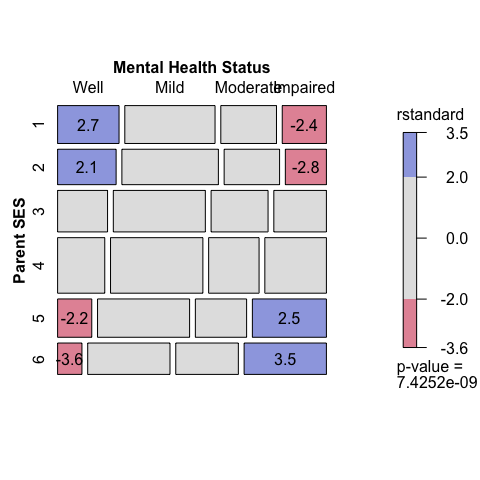
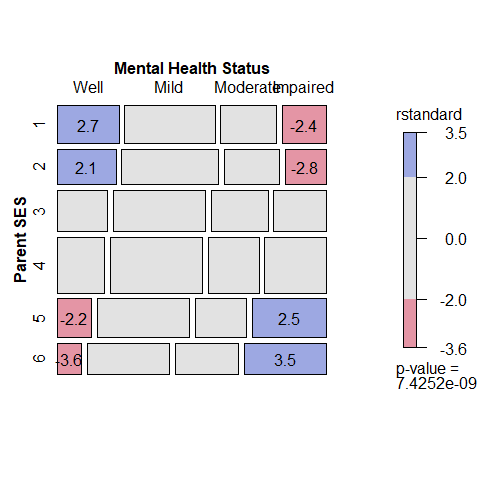
Rebuild README.md (was stale at 0.9.6); document the build gotcha
README.md wasn't re-knit since before the 0.9.7 bump, so the pkgdown
site kept showing a stale "Version 0.9.6" line -- pkgdown copies
README.md as-is, it doesn't re-render README.Rmd. Re-knit via
rmarkdown::render() after devtools::install(build_vignettes = TRUE),
regenerating the three Mental-dataset figures along the way.

devtools::build_readme() itself still fails even with vignettes
installed (renders via pkgload::load_all(), which doesn't populate
the installed vignette index that README.Rmd's vignette-listing chunk
reads from) -- documented as a build gotcha in issues/TASKS.md, along
with the vcd Codeberg clone-location sync from earlier.

Claude-Session: https://claude.ai/code/session_011fF7fuYyARs6gSAAj7Ydd5

diff --git a/issues/TASKS.md b/issues/TASKS.md
@@ -15,9 +15,19 @@ As these items are resolved, check them off as [X]
 
 David Meyer (maintainer of `vcd`) migrated its repo off R-Forge (going end-of-life) to Codeberg:
 https://codeberg.org/davidjohannesmeyer/vcd (git-based). **This is now the authoritative source
-for `vcd`** — the local copy at `C:\Dropbox\R\packages\vcd` is stale and shouldn't be treated as
-current. Now a collaborator there. Codeberg runs on **Forgejo** (a GitHub-like forge), so the
-workflow is close to GitHub's:
+for `vcd`.**
+
+Cloned fresh to `C:\Dropbox\R\projects\vcd` (2026-07-30) — `main` branch, SSH auth confirmed
+working (reused the existing GitHub SSH key, added to Codeberg account settings), collaborator
+access confirmed. Opens directly via `vcd.Rproj`.
+
+Two stale copies to be aware of, both superseded, neither touched further:
+- `C:\Dropbox\R\packages\vcd` — an extracted package/tarball dump (no `.git`), not a dev checkout.
+- `C:\Dropbox\R\projects\vcd-svn-old-2016` — an old R-Forge-era **SVN** checkout (has `.svn`),
+  found unexpectedly already sitting at the `projects\vcd` path and renamed aside to make room for
+  the fresh git clone.
+
+Codeberg runs on **Forgejo** (a GitHub-like forge), so the workflow is close to GitHub's:
 
 - Add an SSH key under Account Settings → SSH/GPG Keys (can reuse the existing GitHub key), or use
   HTTPS with a personal access token (no plain password auth, same as GitHub).
@@ -31,6 +41,30 @@ workflow is close to GitHub's:
 Once comfortable with that workflow, consider replicating/moving some of the `vcd`-enhancing work
 currently living in `vcdExtra` over to that repo directly — e.g. the `shading_marimekko()` idea
 below, which extends a function in `vcd` itself rather than in `vcdExtra`.
+
+## Migrate back to vcd
+
+Functions in `vcdExtra` that supersede or extend a same-named function in `vcd` (`vcd` being
+otherwise inactive) — candidates for PRs to the new Codeberg repo instead of staying
+vcdExtra-only. Confirmed via `library(vcdExtra)`'s own startup message ("Registered S3 methods
+overwritten by 'vcdExtra': `pairs.table`, `print.Kappa`"; "masked from 'package:vcd':
+`pairs_diagonal_mosaic`, `woolf_test`") plus each file's own roxygen documentation.
+
+- [ ] **`R/woolf_test.R`** — `woolf_test()` supersedes `vcd::woolf_test()`, adding a `decompose`
+  option: for a 2×2×R×C table, decomposes the overall homogeneity test into row effects, column
+  effects, and residual (interaction), analogous to a two-way ANOVA. The function's own docs call
+  this decomposition "a novel extension... appears [not to exist] in the existing literature."
+
+- [ ] **`R/pairs_diagonal_mosaic.R`** — `pairs_diagonal_mosaic()` is "an enhanced replacement for
+  `vcd::pairs_diagonal_mosaic()`": fixes two bugs where the original hardcoded/ignored its
+  `labeling` and `alternate_labels` arguments, and changes the default labeling scheme from
+  `labeling_values` to `labeling_border` (so cell counts are off by default). Also provides a
+  companion `pairs.table()` S3 method using this fixed version as the default diagonal panel —
+  this is what overwrites `vcd`'s `pairs.table` method.
+
+- [ ] **`R/print.Kappa.R`** — `print.Kappa()` is "a replacement for the `print.Kappa` method in
+  `vcd`," adding display of `z` values and an optional `CI` argument for confidence intervals,
+  neither present in `vcd`'s version.
 
 ## TODOs
 
@@ -95,8 +129,8 @@ below, which extends a function in `vcd` itself rather than in `vcdExtra`.
 
 Identified, not yet deleted (held for manual review).
 
-- [ ] `issues/CMHtest/` (`CMH-test-fix.R`, `CMHtest-new.R`, `CMHtest-old.R`, `CMHtest_issue.Rmd`) —
-  `CMHtest.R` shipped long ago.
+- [X] `issues/CMHtest/` (`CMH-test-fix.R`, `CMHtest-new.R`, `CMHtest-old.R`, `CMHtest_issue.Rmd`) —
+  `CMHtest.R` shipped long ago. -> Leave these for now
 
 - [ ] `issues/data-roxygenize.R`, `issues/fix_roxy.R`, `issues/fix_roxygen_items.R` — one-time roxygen
   migration scripts.
@@ -109,7 +143,7 @@ Identified, not yet deleted (held for manual review).
 - [ ] `dev/labeling_points-test.R` — `labeling_points()` shipped (keep `-plan.md`, referenced by the
   vignette TODO above).
 
-- [ ] `extra/vignettes-new/mobility.Rmd` — superseded, `a6-mobility.Rmd` already shipped in
+- [X] `extra/vignettes-new/mobility.Rmd` — superseded, `a6-mobility.Rmd` already shipped in
   `vignettes/`.
 
 - [ ] `dev/color_table/color_table-plan.md`, `color_table.md` and `dev/assoc_graph/assoc-graph.md`,
@@ -146,4 +180,63 @@ Identified, not yet deleted (held for manual review).
   `a1a-convert-collapse.Rmd` ("Steps Toward Tidy Categorical Data Analysis"), since Gavin
   Klorfine's `as_*()`/`collapse_levels()` work has now accomplished much of what this vignette
   originally proposed.
+
+## Codeberg issue draft: migrate back to vcd
+
+Drafted 2026-07-30 for the `vcd` Codeberg repo (https://codeberg.org/davidjohannesmeyer/vcd),
+covering the three confirmed function overrides above. Saved here so it can be copy/pasted back
+into the Codeberg issue editor.
+
+---
+
+There are a number of functions in `vcdExtra` that supersede or extend a same-named function in `vcd`. These are candidates for PRs to the new Codeberg repo instead of staying vcdExtra-only. I'm asking to clarify what I might do here.
+
+Confirmed via `library(vcdExtra)`'s own startup message ("Registered S3 methods overwritten by 'vcdExtra': `pairs.table`, `print.Kappa`"; "masked from 'package:vcd': `pairs_diagonal_mosaic`, `woolf_test`") plus each file's own roxygen documentation.
+
+- **[`R/woolf_test.R`](https://github.com/friendly/vcdExtra/blob/master/R/woolf_test.R)** — `woolf_test()` supersedes `vcd::woolf_test()`, adding a `decompose` option: for a 2×2×R×C table, decomposes the overall homogeneity test into row effects, column effects, and residual (interaction), analogous to a two-way ANOVA. This is actually a novel extension... appears not to exist in the existing literature. My grad student, Gavin Klorfine, is studying this via simulation for his MA project, so it would be good to be clear about where this should live, be maintained, ...
+- **[`R/pairs_diagonal_mosaic.R`](https://github.com/friendly/vcdExtra/blob/master/R/pairs_diagonal_mosaic.R)** — `pairs_diagonal_mosaic()` is "an enhanced replacement for `vcd::pairs_diagonal_mosaic()`": fixes two bugs where the original hardcoded/ignored its `labeling` and `alternate_labels` arguments, and changes the default labeling scheme from `labeling_values` to `labeling_border` (so cell counts are off by default). Also provides a companion `pairs.table()` S3 method using this fixed version as the default diagonal panel — this is what overwrites `vcd`'s `pairs.table` method.
+- **[`R/print.Kappa.R`](https://github.com/friendly/vcdExtra/blob/master/R/print.Kappa.R)** — `print.Kappa()` is "a replacement for the `print.Kappa` method in `vcd`," adding display of `z` values and an optional `CI` argument for confidence intervals, neither present in `vcd`'s version.
+
+---
+
+## Build gotcha: `README.md` / `devtools::build_readme()`
+
+Found 2026-07-30: the pkgdown site's homepage showed a stale "Version 0.9.6; documentation built
+for `pkgdown` 2026-07-01" (from `README.md`) even right after a successful pkgdown GHA build. Root
+cause: pkgdown copies `README.md` as-is — it does **not** re-knit `README.Rmd` — so a stale
+committed `README.md` stays stale no matter how many times the site rebuilds. `README.Rmd`'s
+version/date line is dynamic (`` `r getNamespaceVersion("vcdExtra")` ``, `` `r Sys.Date()` ``), so
+it only updates when someone re-knits it locally and commits the result.
+
+`.build-steps.R` already has the right shape for this — install with vignettes, then rebuild the
+README if stale:
+```r
+# The README.Rmd references the vignettes, so they must be installed first
+devtools::install(build_vignettes = TRUE)
+
+# build the README.md if it is older than README.Rmd
+if (!file.exists("README.md") || file.mtime("README.Rmd") > file.mtime("README.md")) {
+  devtools::build_readme()
+}
+```
+
+**However**: reproduced on 2026-07-30 (fresh `Rscript` sessions) that `devtools::build_readme()`
+*still fails* even right after `devtools::install(build_vignettes = TRUE)`, with:
+```
+Error in `$<-.data.frame`(...) : replacement has 1 row, data has 0
+```
+from the `vignettes` chunk in `README.Rmd` (`tools::getVignetteInfo("vcdExtra")` returns 0 rows in
+that context). Cause: `build_readme()` renders via `pkgload::load_all()` (a dev/source-loaded
+namespace) rather than the installed library, and `load_all()` doesn't populate the installed
+vignette index that `getVignetteInfo()` reads from — so the chunk sees 0 vignettes and crashes
+assigning a length-1 `paste0()` result onto a 0-row column.
+
+**Workaround that worked**: after `devtools::install(build_vignettes = TRUE)`, call
+`rmarkdown::render("README.Rmd")` **directly** instead of `devtools::build_readme()`.
+
+- [ ] Worth checking whether this is new (a `devtools`/`pkgload` version change) or has always been
+  broken and `.build-steps.R` simply hasn't been run end-to-end recently.
+- [ ] Consider hardening the `vignettes` chunk in `README.Rmd` itself (e.g. skip/guard when
+  `nrow(vigns) == 0`) so it degrades gracefully instead of crashing the whole render, regardless of
+  which tool renders it.
 

diff --git a/README.md b/README.md
@@ -1,9 +1,7 @@
 
 <!-- README.md is generated from README.Rmd. Please edit that file -->
-
 <!-- This README requires access to the vignettes in the package. Please run
      devtools::install(build_vignettes = TRUE) before knitting this to README.md -->
-
 <!-- badges: start -->
 
 [![CRAN_Status](http://www.r-pkg.org/badges/version/vcdExtra)](https://cran.r-project.org/package=vcdExtra)
@@ -20,7 +18,6 @@ Bluesky](https://img.shields.io/badge/Bluesky-0285FF?logo=bluesky&logoColor=0285
 <!--
 [![R-CMD-check](https://github.com/friendly/vcdExtra/actions/workflows/R-CMD-check.yaml/badge.svg)](https://github.com/friendly/vcdExtra/actions/workflows/R-CMD-check.yaml)
 -->
-
 <!-- badges: end -->
 
 # vcdExtra <img src="man/figures/logo.png" align="right" height="200px" /><br><sub>Extensions and additions to vcd: Visualizing Categorical Data</sub>
@@ -28,10 +25,9 @@ Bluesky](https://img.shields.io/badge/Bluesky-0285FF?logo=bluesky&logoColor=0285
 <!--
 ## Extensions and additions to vcd: Visualizing Categorical Data
 -->
-
 <!-- Version 0.8-6 -->
 
-Version 0.9.6; documentation built for `pkgdown` 2026-07-01
+Version 0.9.7; documentation built for `pkgdown` 2026-07-30
 
 This package provides additional data sets, documentation, and many
 functions designed to extend the
@@ -74,7 +70,7 @@ Get the released version (0.9.6) from CRAN:
 
      install.packages("vcdExtra")
 
-The current development version (0.9.6) can be installed from
+The current development version (0.9.7) can be installed from
 [R-universe](https://friendly.r-universe.dev/vcdExtra) or directly from
 the [GitHub repo](https://github.com/friendly/vcdExtra) via:
 
@@ -199,18 +195,18 @@ vigns$Title <- paste0("[", vigns$Title, "](https://friendly.github.io/vcdExtra/a
 vigns |> knitr::kable()
 ```
 
-| File | Title |
-|:---|:---|
-| a1-creating.Rmd | [1. Creating and manipulating frequency tables](https://friendly.github.io/vcdExtra/articles/a1-creating.html) |
+| File                     | Title                                                                                                                     |
+|:-------------------------|:--------------------------------------------------------------------------------------------------------------------------|
+| a1-creating.Rmd          | [1. Creating and manipulating frequency tables](https://friendly.github.io/vcdExtra/articles/a1-creating.html)            |
 | a1a-convert-collapse.Rmd | [1a. Steps Toward Tidy Categorical Data Analysis](https://friendly.github.io/vcdExtra/articles/a1a-convert-collapse.html) |
-| a2-tests.Rmd | [2. Tests of Independence](https://friendly.github.io/vcdExtra/articles/a2-tests.html) |
-| a3-loglinear.Rmd | [3. Loglinear Models](https://friendly.github.io/vcdExtra/articles/a3-loglinear.html) |
-| a4-mosaics.Rmd | [4. Mosaic plots](https://friendly.github.io/vcdExtra/articles/a4-mosaics.html) |
-| a5-demo-housing.Rmd | [5. Demo - Housing Data](https://friendly.github.io/vcdExtra/articles/a5-demo-housing.html) |
-| a6-mobility.Rmd | [6. Mobility tables](https://friendly.github.io/vcdExtra/articles/a6-mobility.html) |
-| a7-continuous.Rmd | [7. Continuous predictors](https://friendly.github.io/vcdExtra/articles/a7-continuous.html) |
-| datasets.Rmd | [Datasets for categorical data analysis](https://friendly.github.io/vcdExtra/articles/datasets.html) |
-| tidyCats.Rmd | [tidyCat: Tidy Methods For Categorical Data Analysis](https://friendly.github.io/vcdExtra/articles/tidyCats.html) |
+| a2-tests.Rmd             | [2. Tests of Independence](https://friendly.github.io/vcdExtra/articles/a2-tests.html)                                    |
+| a3-loglinear.Rmd         | [3. Loglinear Models](https://friendly.github.io/vcdExtra/articles/a3-loglinear.html)                                     |
+| a4-mosaics.Rmd           | [4. Mosaic plots](https://friendly.github.io/vcdExtra/articles/a4-mosaics.html)                                           |
+| a5-demo-housing.Rmd      | [5. Demo - Housing Data](https://friendly.github.io/vcdExtra/articles/a5-demo-housing.html)                               |
+| a6-mobility.Rmd          | [6. Mobility tables](https://friendly.github.io/vcdExtra/articles/a6-mobility.html)                                       |
+| a7-continuous.Rmd        | [7. Continuous predictors](https://friendly.github.io/vcdExtra/articles/a7-continuous.html)                               |
+| datasets.Rmd             | [Datasets for categorical data analysis](https://friendly.github.io/vcdExtra/articles/datasets.html)                      |
+| tidyCats.Rmd             | [tidyCat: Tidy Methods For Categorical Data Analysis](https://friendly.github.io/vcdExtra/articles/tidyCats.html)         |
 
 - there is also a set of simple **demonstration files** illustrating
   analysis of datasets with more detail than provided in their
